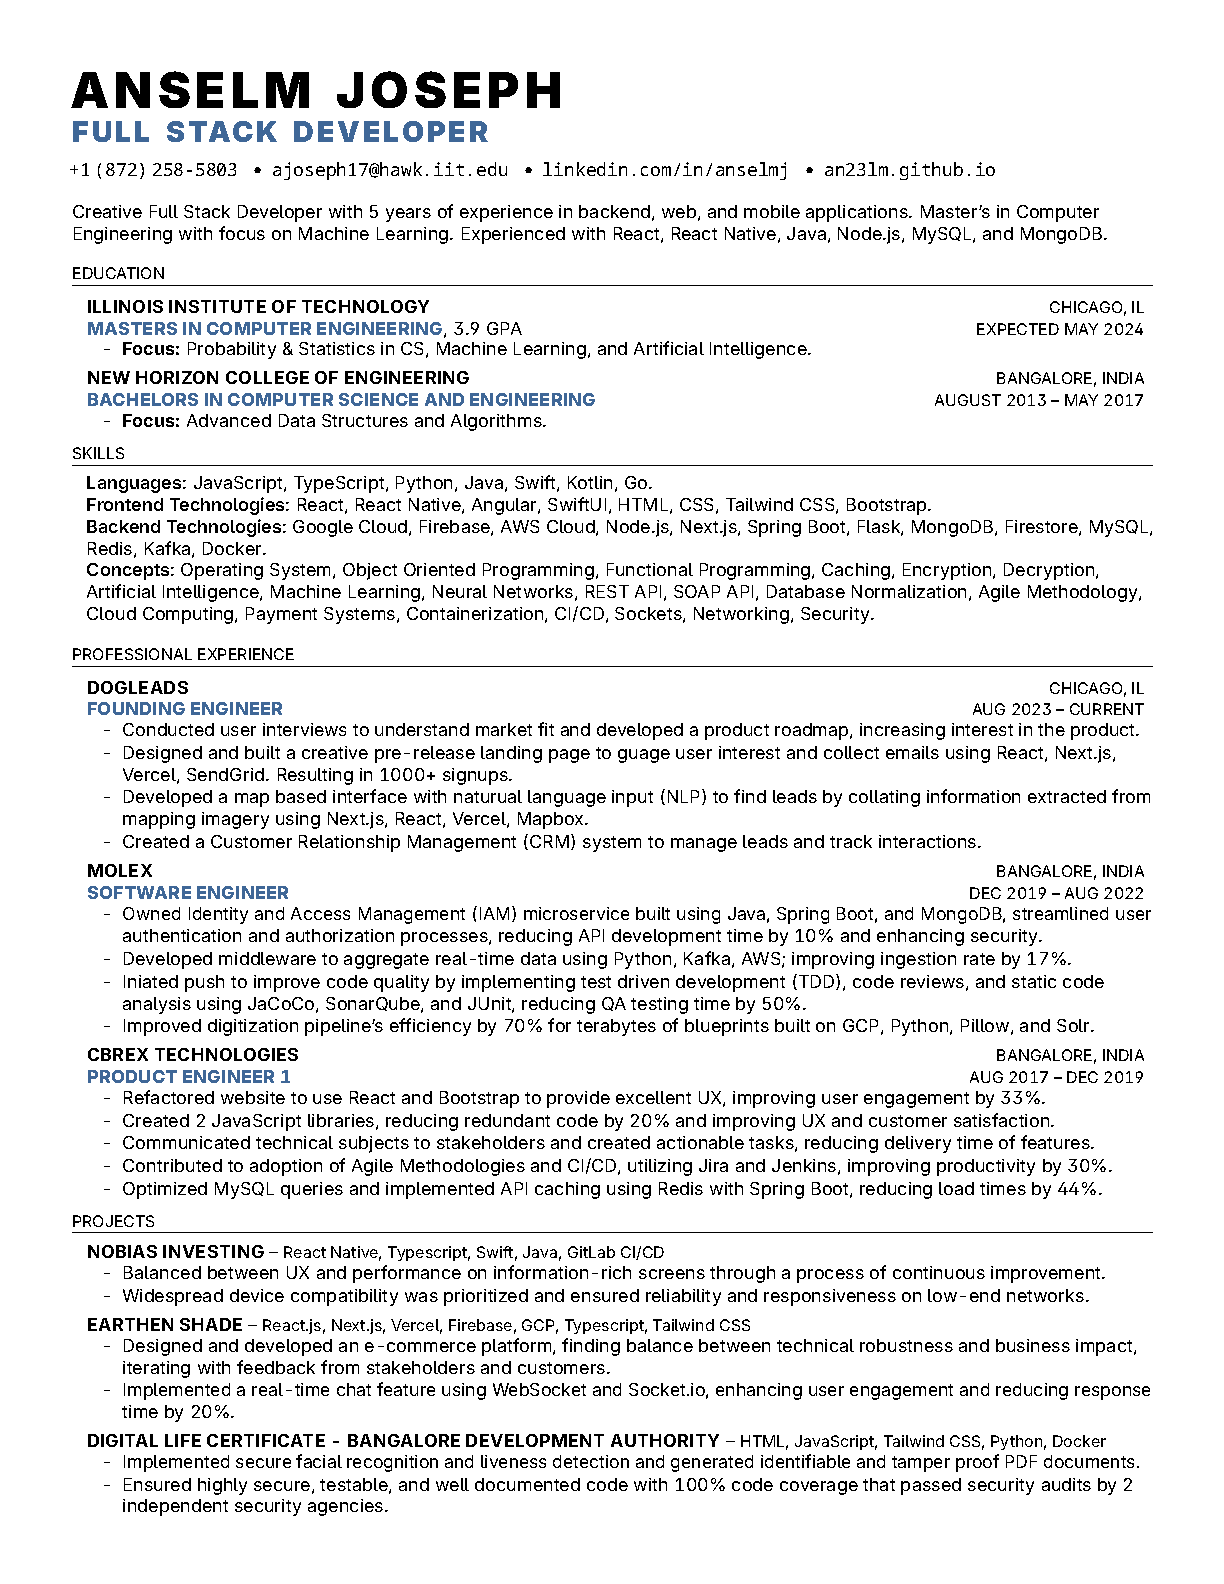
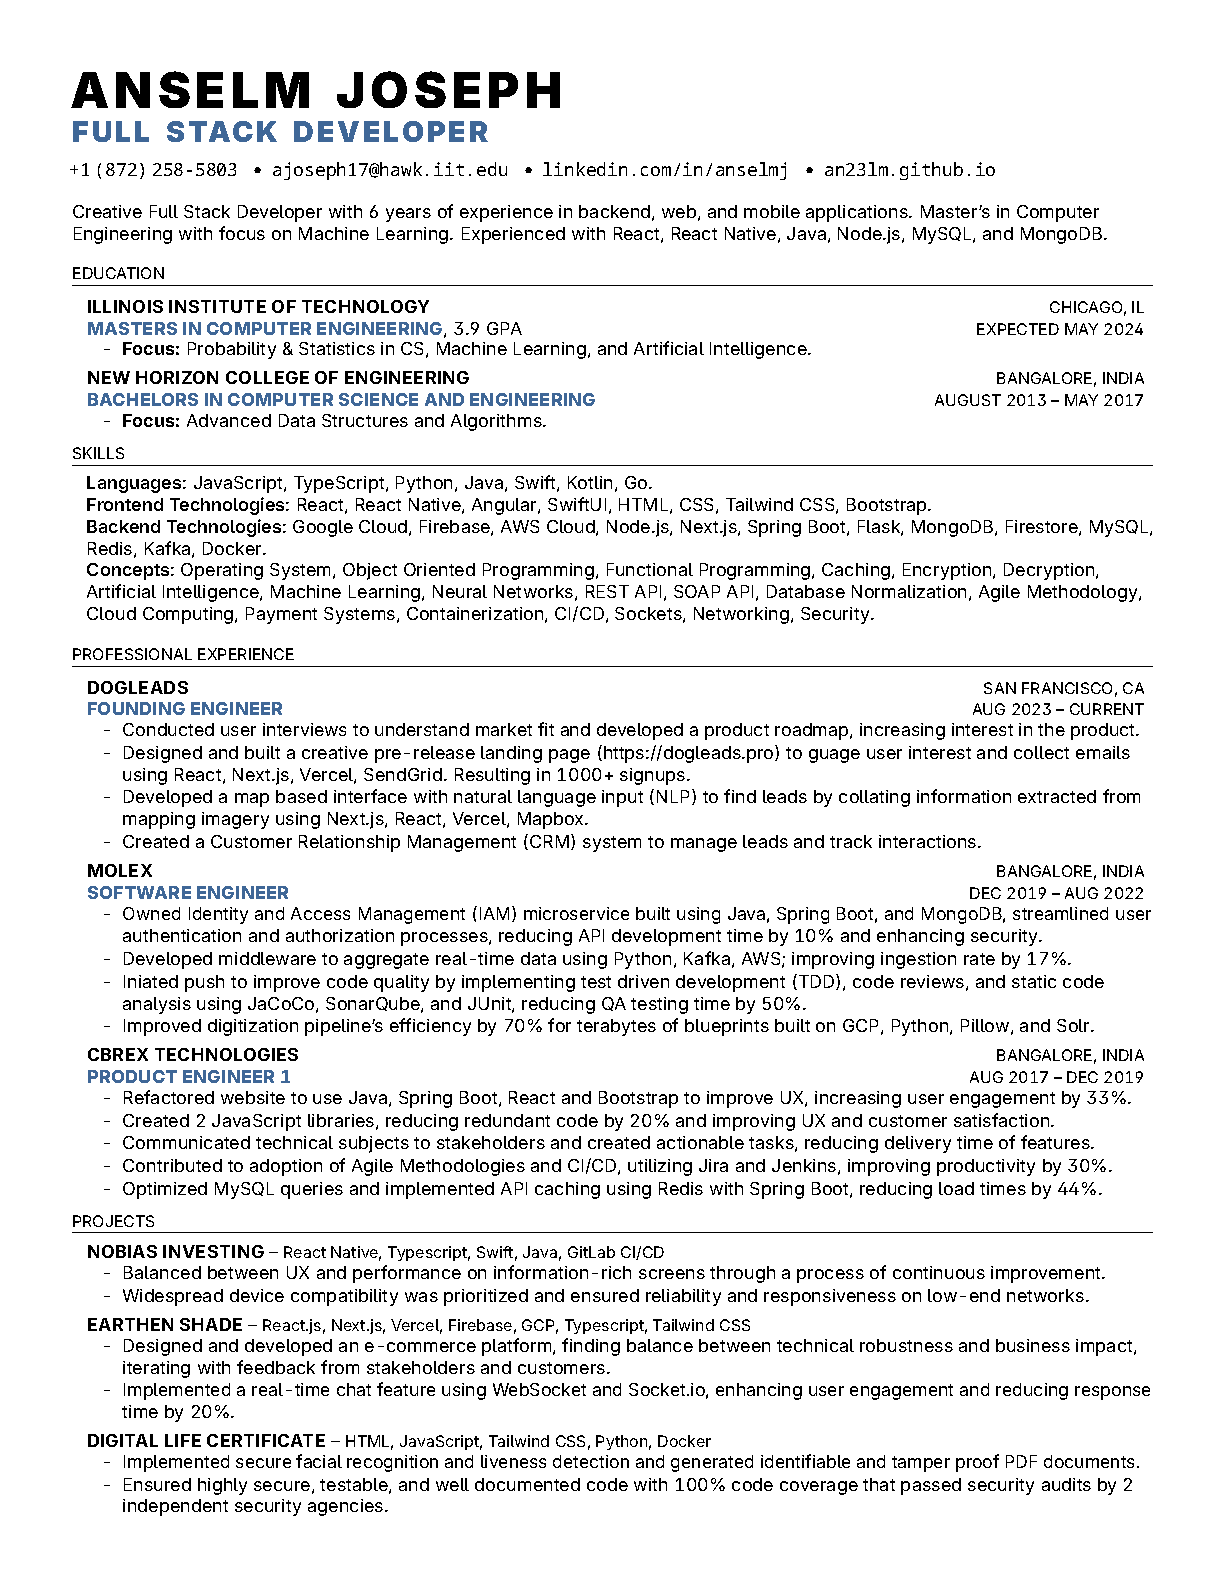
Updated years of xp to 6

diff --git a/components/heading.tex b/components/heading.tex
@@ -5,4 +5,4 @@
 \hspace{0.43em}•\hspace{0.43em}\href{mailto:ajoseph17@hawk.iit.edu}{\small{\mono{ajoseph17@hawk.iit.edu}}}
 \hspace{0.43em}•\hspace{0.43em}\href{https://www.linkedin.com/in/anselmj}{\small{\mono{linkedin.com/in/anselmj}}}
 \hspace{0.43em}•\hspace{0.43em}\href{https://an23lm.github.io}{\small{\mono{an23lm.github.io}}} \\ \vspace{10pt}
-\small{Creative Full Stack Developer with 5 years of experience in backend, web, and mobile applications. Master's in Computer Engineering with focus on Machine Learning. Experienced with React, React Native, Java, Node.js, MySQL, and MongoDB.}
+\small{Creative Full Stack Developer with 6 years of experience in backend, web, and mobile applications. Master's in Computer Engineering with focus on Machine Learning. Experienced with React, React Native, Java, Node.js, MySQL, and MongoDB.}
